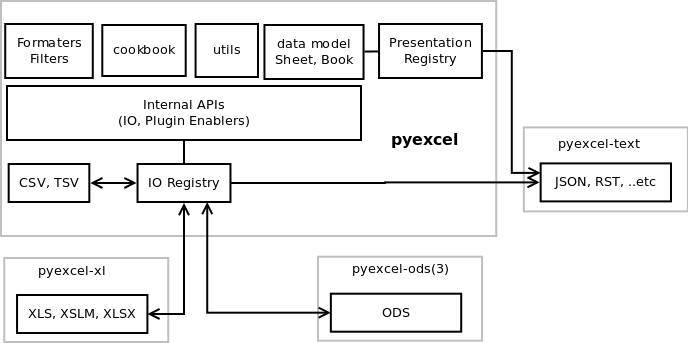
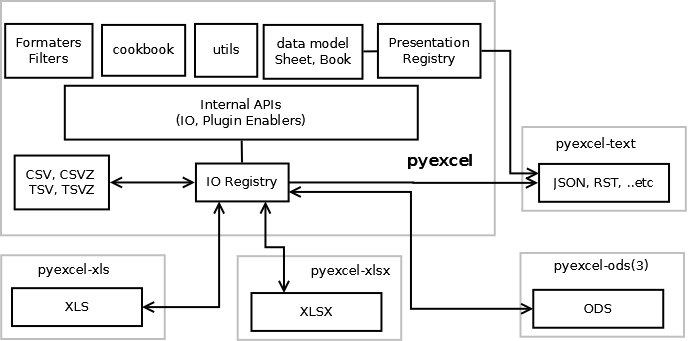
documenation update

diff --git a/doc/source/csvz.rst b/doc/source/csvz.rst
@@ -1,0 +1,113 @@
+==============
+CVSZ and TSVZ
+==============
+
+Introduction
+-------------
+
+'csvz' and 'tsvz' are newly invented excel file formats by pyexcel. Simply put, 'csvz' is the zipped content of one or more csv file(s). 'tsvz' is the twin brother of 'csvz'. They are similiar to the implementation of xlsx format, which is a zip of excel content in xml format.
+
+The obvious tangile benefit of zipped csv over normal csv is the reduced file size. However, the drawback is the need of unzipping software.
+
+Single Sheet
+------------
+
+When a single sheet is to be saved, the resulting csvz file will be a zip file that contains one csv file bearing the name of `class:Sheet`.
+
+    >>> import pyexcel as pe
+    >>> data = [[1,2,3]]
+    >>> sheet = pe.Sheet(data)
+    >>> sheet.save_as("myfile.csvz")
+    >>> import zipfile
+    >>> zip = zipfile.ZipFile("myfile.csvz", 'r')
+    >>> zip.namelist()
+    ['pyexcel_sheet1.csv']
+	>>> zip.close()
+
+And it can be read out as well and can be saved in any other supported format.
+
+    >>> sheet2 = pe.load("myfile.csvz")
+    >>> sheet2
+    Sheet Name: pyexcel_sheet1
+    +---+---+---+
+    | 1 | 2 | 3 |
+    +---+---+---+
+
+
+Mitiple Sheet Book
+-------------------
+
+When multiple sheets are to be saved as a book, the resulting csvz file will be a zip file that contains each sheet as a csv file named after corresponding sheet name.
+
+    >>> content = {
+    ...     'Sheet 1': 
+    ...         [
+    ...             [1.0, 2.0, 3.0], 
+    ...             [4.0, 5.0, 6.0], 
+    ...             [7.0, 8.0, 9.0]
+    ...         ],
+    ...     'Sheet 2': 
+    ...         [
+    ...             ['X', 'Y', 'Z'], 
+    ...             [1.0, 2.0, 3.0], 
+    ...             [4.0, 5.0, 6.0]
+    ...         ], 
+    ...     'Sheet 3': 
+    ...         [
+    ...             ['O', 'P', 'Q'], 
+    ...             [3.0, 2.0, 1.0], 
+    ...             [4.0, 3.0, 2.0]
+    ...         ] 
+    ... }
+	>>> book = pe.Book(content)
+	>>> book.save_as("mybook.csvz")
+    >>> import zipfile
+    >>> zip = zipfile.ZipFile("mybook.csvz", 'r')
+    >>> zip.namelist()
+    ['Sheet 1.csv', 'Sheet 2.csv', 'Sheet 3.csv']
+	>>> zip.close()
+
+The csvz book can be read back with two lines of code. And once it is read out, it can be saved in any other supported format.
+
+    >>> book2 = pe.load_book("mybook.csvz")
+    >>> book2
+    Sheet Name: Sheet 1
+    +---+---+---+
+    | 1 | 2 | 3 |
+    +---+---+---+
+    | 4 | 5 | 6 |
+    +---+---+---+
+    | 7 | 8 | 9 |
+    +---+---+---+
+    Sheet Name: Sheet 2
+    +---+---+---+
+    | X | Y | Z |
+    +---+---+---+
+    | 1 | 2 | 3 |
+    +---+---+---+
+    | 4 | 5 | 6 |
+    +---+---+---+
+    Sheet Name: Sheet 3
+    +---+---+---+
+    | O | P | Q |
+    +---+---+---+
+    | 3 | 2 | 1 |
+    +---+---+---+
+    | 4 | 3 | 2 |
+    +---+---+---+
+
+
+Open csvz wihtout pyexcel
+----------------------------
+
+All you need is a unzipping software. I would recommend 7zip which is open source and is available on all available OS platforms.
+
+On latest Windows platform (windows 8), zip file is supported so just give the "csvz" file a file extension as ".zip". The file can be opened by File Explorer.
+
+
+.. testcode::
+   :hide:
+
+    >>> import os
+    >>> os.unlink("myfile.csvz")
+    >>> os.unlink("mybook.csvz")

diff --git a/doc/source/iapi/pyexcel.sheets.FilterableSheet.rst b/doc/source/iapi/pyexcel.sheets.FilterableSheet.rst
@@ -35,6 +35,7 @@ pyexcel.sheets.FilterableSheet
       ~FilterableSheet.format
       ~FilterableSheet.freeze_filters
       ~FilterableSheet.freeze_formatters
+      ~FilterableSheet.insert
       ~FilterableSheet.map
       ~FilterableSheet.number_of_columns
       ~FilterableSheet.number_of_rows

diff --git a/doc/source/iapi/pyexcel.sheets.NominableSheet.rst b/doc/source/iapi/pyexcel.sheets.NominableSheet.rst
@@ -37,6 +37,7 @@ pyexcel.sheets.NominableSheet
       ~NominableSheet.format
       ~NominableSheet.freeze_filters
       ~NominableSheet.freeze_formatters
+      ~NominableSheet.insert
       ~NominableSheet.map
       ~NominableSheet.name_columns_by_row
       ~NominableSheet.name_rows_by_column

diff --git a/doc/source/iapi/pyexcel.sheets.Sheet.rst b/doc/source/iapi/pyexcel.sheets.Sheet.rst
@@ -37,6 +37,7 @@ pyexcel.sheets.Sheet
       ~Sheet.format
       ~Sheet.freeze_filters
       ~Sheet.freeze_formatters
+      ~Sheet.insert
       ~Sheet.map
       ~Sheet.name_columns_by_row
       ~Sheet.name_rows_by_column

diff --git a/doc/source/index.rst b/doc/source/index.rst
@@ -178,6 +178,7 @@ Tutorial
    tutorial03
    tutorial04
    tutorial06
+   csvz
 
 Cook book
 ++++++++++
